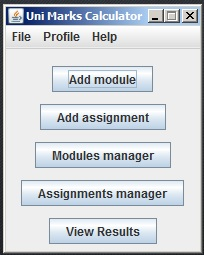
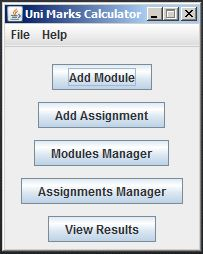
MainuGUI - commented out PROFILE menu as not needed in current program version (i.e. 1.1). Added new and updated old pictures.

diff --git a/UniMarksCalculator/src/unimarkscalculator/gui/marksGUI.java b/UniMarksCalculator/src/unimarkscalculator/gui/marksGUI.java
@@ -98,25 +98,25 @@ public class MarksGUI
         fileMenu.add(exitItem);
         exitItem.addActionListener(new ExitHandler());                           
         
-        // *** PROFILE menu:
-        JMenu profileMenu = new JMenu("Profile");
-        menubar.add(profileMenu);
-        
-        JMenuItem newItem = new JMenuItem("New");
-        profileMenu.add(newItem);
-        // TODO - add Action Listener
-
-        JMenuItem loadItem = new JMenuItem("Load");
-        profileMenu.add(loadItem);
-        // TODO - add Action Listener
-
-        JMenuItem editItem = new JMenuItem("Edit");
-        profileMenu.add(editItem);
-        // TODO - add Action Listener  
- 
-        JMenuItem deleteItem = new JMenuItem("Delete");
-        profileMenu.add(deleteItem);
-        // TODO - add Action Listener
+//        // *** PROFILE menu:
+//        JMenu profileMenu = new JMenu("Profile");
+//        menubar.add(profileMenu);
+//        
+//        JMenuItem newItem = new JMenuItem("New");
+//        profileMenu.add(newItem);
+//        // TODO - add Action Listener
+//
+//        JMenuItem loadItem = new JMenuItem("Load");
+//        profileMenu.add(loadItem);
+//        // TODO - add Action Listener
+//
+//        JMenuItem editItem = new JMenuItem("Edit");
+//        profileMenu.add(editItem);
+//        // TODO - add Action Listener  
+// 
+//        JMenuItem deleteItem = new JMenuItem("Delete");
+//        profileMenu.add(deleteItem);
+//        // TODO - add Action Listener
         
         // *** HELP menu:
         JMenu helpMenu = new JMenu("Help");
